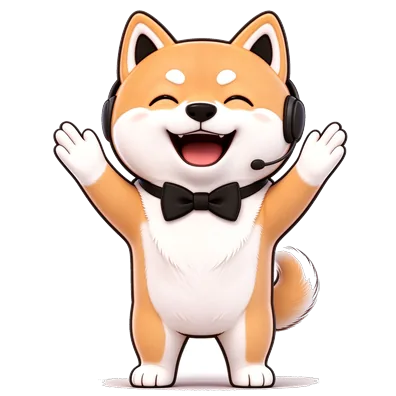
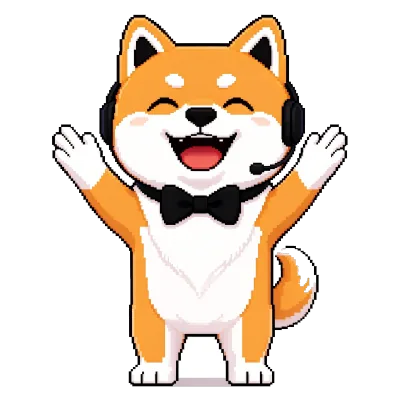
feat(pet): 重新生成像素风柴犬资源
从 ~/Downloads/柴犬关键帧 重新读取素材（已全部替换为像素风）并重建
frontend/src/assets/pet 下的 16 个 webp。

## 脚本按新素材调整了两处
1. **按帧号去重**：新素材每个编号有多张变体（`walk_04_前伸帧` /
   `walk_04_接触帧`、`tail_02_右摆` / `tail_02_右摆30度`、`idle_04_半闭眼`
   / `idle_04_半闭眼眨眼` …），而动画是按「一个编号一帧」的 8 帧循环。
   改成按 `[a-z]+_<编号>` 分组、每组取排序后第一张，数量对不上直接报错，
   不做静默裁剪。
2. **降采样换 BOX**：像素风用 LANCZOS 会在色块边缘产生振铃（一圈发亮的镶边），
   像素感就糊了；BOX 只做区间平均，边界干净。放大时仍用 LANCZOS。

## 校验
- 4 条循环各 8 帧（缺眼/变体不会混进来）
- 透明度：四角 alpha=0，完全透明占比 64.2%，白边采样 0
- 体型一致性不变：仍走同一个 `_fit()`（统一比例、不按内容裁剪）
- 视觉抽查：idle 第 1 帧、walk 第 4 帧，像素块清晰无白边

diff --git a/scripts/build_pet_assets.py b/scripts/build_pet_assets.py
@@ -18,6 +18,7 @@
 from __future__ import annotations
 
 import argparse
+import re
 from collections import deque
 from pathlib import Path
 
@@ -103,11 +104,15 @@ def _fit(img: Image.Image, size: int = FRAME) -> Image.Image:
     """统一比例缩放到 size 方框，居中补透明边。
 
     **所有帧都走这同一个函数**，不按内容裁剪 —— 体型一致全靠这条。
+
+    降采样用 BOX（面积平均）而不是 LANCZOS：素材是**像素风**，LANCZOS 的
+    振铃会在色块边缘留下一圈发亮的镶边，像素感就糊了；BOX 只做区间平均，
+    色块边界干净。放大时才用 LANCZOS。
     """
     ratio = min(size / img.width, size / img.height)
     scaled = img.resize(
         (max(1, round(img.width * ratio)), max(1, round(img.height * ratio))),
-        Image.LANCZOS,
+        Image.BOX if ratio < 1 else Image.LANCZOS,
     )
     canvas = Image.new("RGBA", (size, size), (0, 0, 0, 0))
     canvas.paste(scaled, ((size - scaled.width) // 2, (size - scaled.height) // 2), scaled)
@@ -122,10 +127,27 @@ def _strip(frames: list[Image.Image], out: Path) -> None:
 
 
 def _frame_files(folder: Path, expected: int) -> list[Path]:
+    """按帧号挑帧：同名编号有多个变体时取排序后的第一个。
+
+    新素材（像素风）每个编号可能有多张变体，例如
+    `walk_04_前伸帧` / `walk_04_接触帧`、`tail_02_右摆` / `tail_02_右摆30度`。
+    循环要的是「一个编号一帧」，所以按编号分组、每组取第一张，
+    再校验数量 —— 数量对不上直接报错，不做静默裁剪。
+    """
     files = sorted(folder.glob("*.png")) or sorted(folder.glob("*.jpg"))
-    if len(files) != expected:
-        raise SystemExit(f"{folder.name}: 期望 {expected} 帧，实际 {len(files)}")
-    return files
+    by_index: dict[str, Path] = {}
+    for f in files:
+        m = re.match(r"[a-z]+_(\d+)", f.stem)
+        if not m:
+            continue
+        by_index.setdefault(m.group(1), f)  # sorted 后第一个即该编号首张
+    picked = [by_index[k] for k in sorted(by_index)]
+    if len(picked) != expected:
+        raise SystemExit(
+            f"{folder.name}: 期望 {expected} 帧，按编号去重后得到 {len(picked)} 帧"
+            f"（原始文件 {len(files)} 张）"
+        )
+    return picked
 
 
 def main() -> None:
